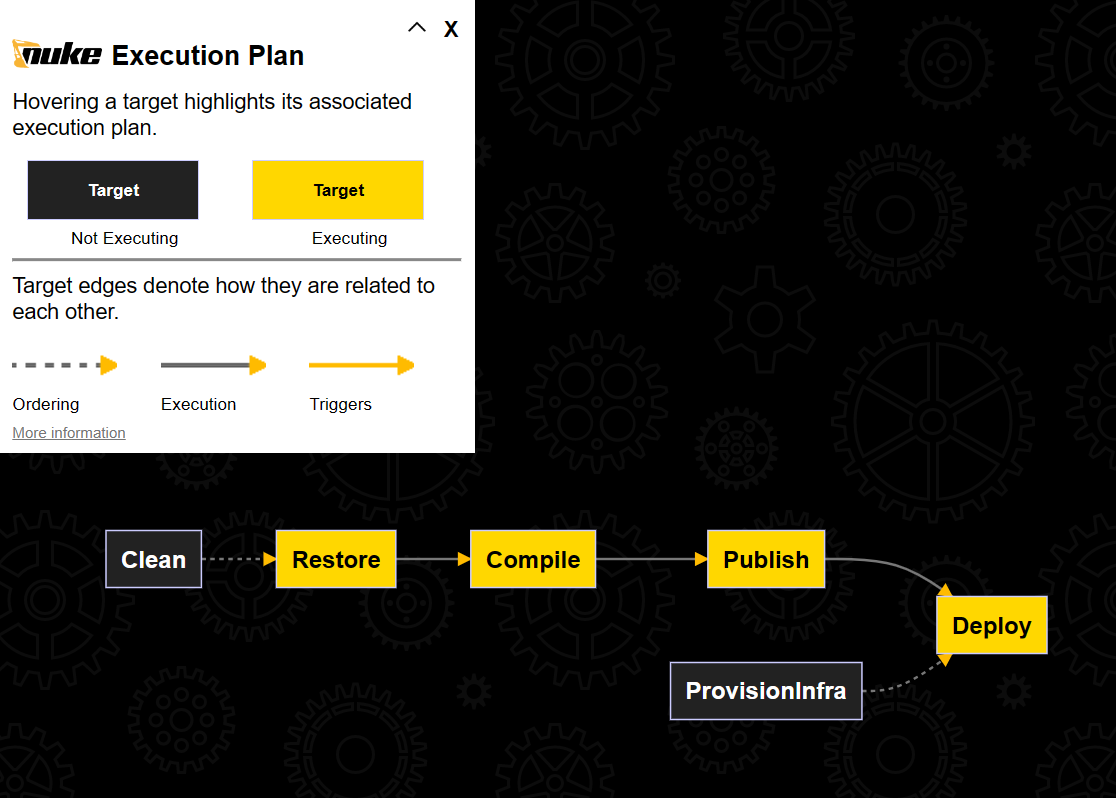
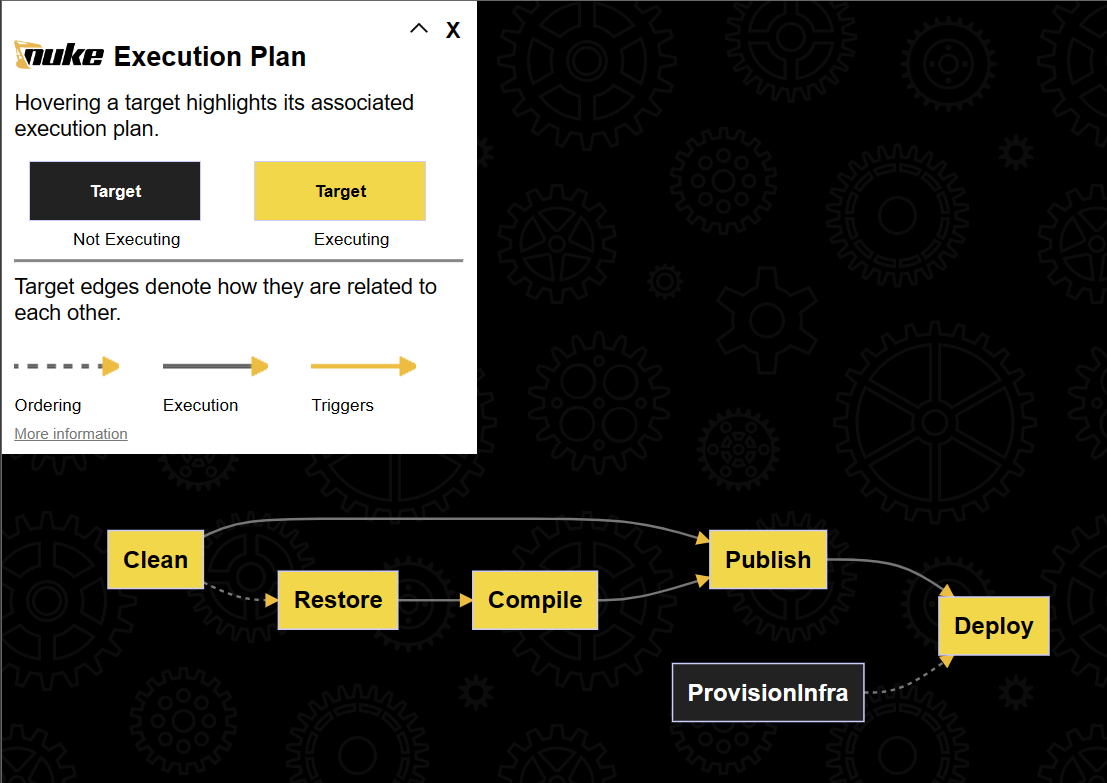
Make some corrections to the pulumi and nuke article.

diff --git a/input/posts/when-pulumi-met-nuke.md b/input/posts/when-pulumi-met-nuke.md
@@ -89,7 +89,7 @@ I will show later how to modify the code of the template to provision an App Ser
 
 >You can check Pulumi [Getting Started with Azure](https://www.pulumi.com/docs/get-started/azure/) tutorial to see how to set up your environment and start creating Azure resources in C# (or in another language).
 
-To initialize the build project, we can use Nuke's .NET global tool as explained in the [documentation]([Build Setup | NUKE](https://nuke.build/docs/getting-started/setup/)):
+To initialize the build project, we can use Nuke's .NET global tool as explained in the [documentation](https://nuke.build/docs/getting-started/setup/):
 
 ```bash
 nuke :setup
@@ -180,7 +180,7 @@ The publish target uses the `dotnet publish` command and then creates a zip `api
 
 ```csharp
 Target Publish => _ => _  
-    .DependsOn(Compile)  
+    .DependsOn(Clean, Compile)  
     .Executes(() =>  
     {  
         DotNetPublish(_ => _  
@@ -195,7 +195,7 @@ Target Publish => _ => _
 
 > 💡If you need more compressing archives options, you can check [Nuke documentation](https://nuke.build/docs/common/compression/#compressing-archives), they have some utilities to do more complex scenarios.
 
-You may have noted on the line where I set the project that I have [strong-typed access to the projects in my solutions](https://nuke.build/docs/common/solution-project-model/#strong-typed-project-access). This is possible by adding this field with the `Solution` attribute and its `GenerateProjects` property set to true. 
+You may have noted on the line where I set the project that I have [strong-typed access to the projects in my solution](https://nuke.build/docs/common/solution-project-model/#strong-typed-project-access). This is possible by adding this field with the `Solution` attribute and its `GenerateProjects` property set to true. 
 
 ```csharp
 [Solution(GenerateProjects = true)]  
@@ -212,7 +212,7 @@ By default, the infrastructure code is contained in the `Program.cs` file of our
 
 <img src="/posts/images/pulumi_met_nuke_10.png" class="img-fluid centered-img">
 
-> 💬The project uses the top-level statement feature of C#.
+> 💬 The project uses the top-level statement feature of C#.
 
 As we don't have many resources to declare for our scenario we will keep all the code in the `Program.cs` file but that is not what you would do in a more complex project.
 
@@ -250,7 +250,7 @@ The code is quite simple, and because we are writing C# in our IDE, we have auto
 
 ### Stack outputs
 
-Provisioning the cloud resources we need is great we have to think about the next step which is to deploy our API on these resources. So what will we need for that?
+Provisioning the cloud resources we need is great but we have to think about the next step which is to deploy our API on these resources. So what will we need for that?
 
 First, we will need to have the name of the provisioned App Service. That's easy it's the property Name of the `appService` variable.
 
@@ -277,7 +277,7 @@ return new Dictionary<string, object?>
 };
 ```
 
-You might notice that we use the `Output.CreateSecret` method to create outputs for our publishing credentials. The aim is to tell Pulumi to treat these values as secrets what it will do by encrypting them in the state file for extra protection (that is not something Terraform does by the way).
+You might notice that we use the `Output.CreateSecret` method to create outputs for our publishing credentials. The aim is to tell Pulumi to treat these values as secrets, and that's what it will do by encrypting them in the state file for extra protection (that is not something Terraform does by the way).
 
 ### Implementing the Provision Infrastructure step
 
@@ -350,6 +350,8 @@ If I fold everything, the pipeline code we created looks like that:
 I think it is quite clear with the different steps/targets defined with their dependencies/order. Yet if this is not clear enough for you, you can use the `nuke --plan` command to display a visual representation of the pipeline (how cool is that !?)
 
 <img src="/posts/images/pulumi_met_nuke_12.png" class="img-fluid centered-img">
+
+> 💬 You can see that the execution plan is almost identical to the pipelines steps we talked about in the beginning of the article. The only difference is that we added to the Publish step a dependence on Clean.
 
 Let's execute the complete pipeline:
 
